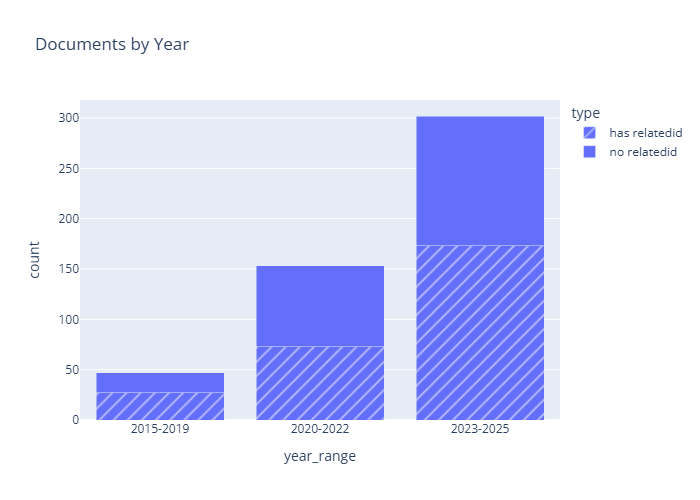
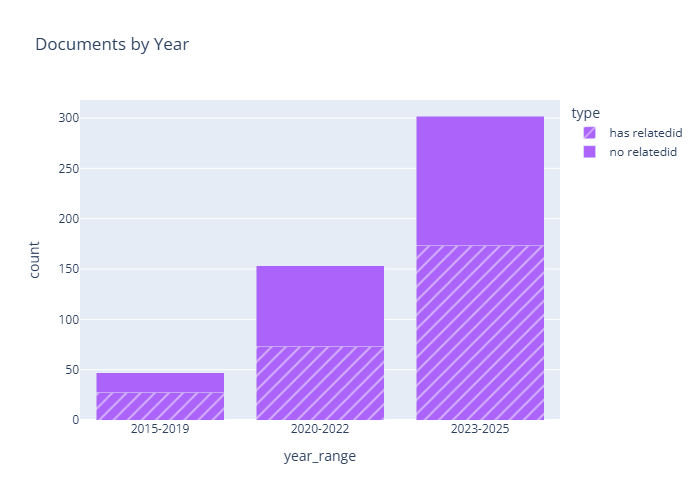
make dataset all purple

Changed region(s): [[0.36, 0.21, 0.78, 0.84], [0.12, 0.72, 0.33, 0.84], [0.81, 0.24, 0.87, 0.33]]

diff --git a/graph.py b/graph.py
@@ -349,7 +349,8 @@ def plot_size_histogram(df, min_year=None, max_year=None):
         x=df_filtered["year"].astype(str),
         y="total_filesize",
         title="Total Filesize by Year (GB, log scale)",
-        log_y=True
+        log_y=True,
+        color_discrete_sequence=["#AB63FA"] 
     )
     fig.update_yaxes(
         title_text="",        # remove y axis label
@@ -383,6 +384,7 @@ def plot_group_sizes(df, start_years=[2015, 2020, 2023, 2026]):
         y="total_filesize",
         title="Total Filesize by Year Range (GB, log scale)",
         log_y=True,
+        color_discrete_sequence=["#AB63FA"] 
     )
     fig.update_xaxes(title_text="")
     fig.update_yaxes(
@@ -658,8 +660,8 @@ if __name__ == "__main__":
     related = related.rename(columns={"has_relatedid": "type"})
     related["type"] = related["type"].map({True: "has relatedid", False: "no relatedid"})
     RELATED_COLOR_MAP ={
-        "has relatedid": "#636EFA",
-        "no relatedid": "#636EFA"
+        "has relatedid": "#AB63FA",
+        "no relatedid": "#AB63FA"
     }
     RELATED_PATTERN_MAP ={
             "has relatedid": "/",
